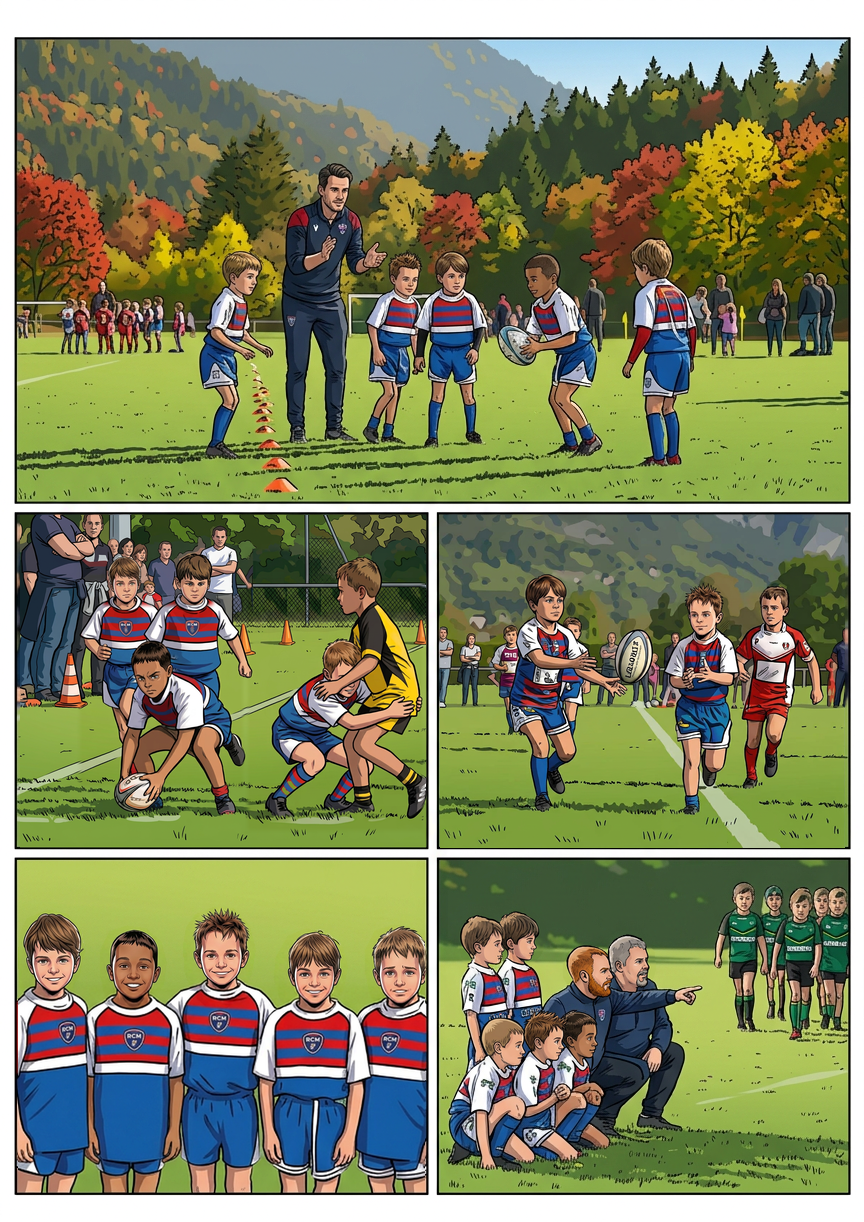
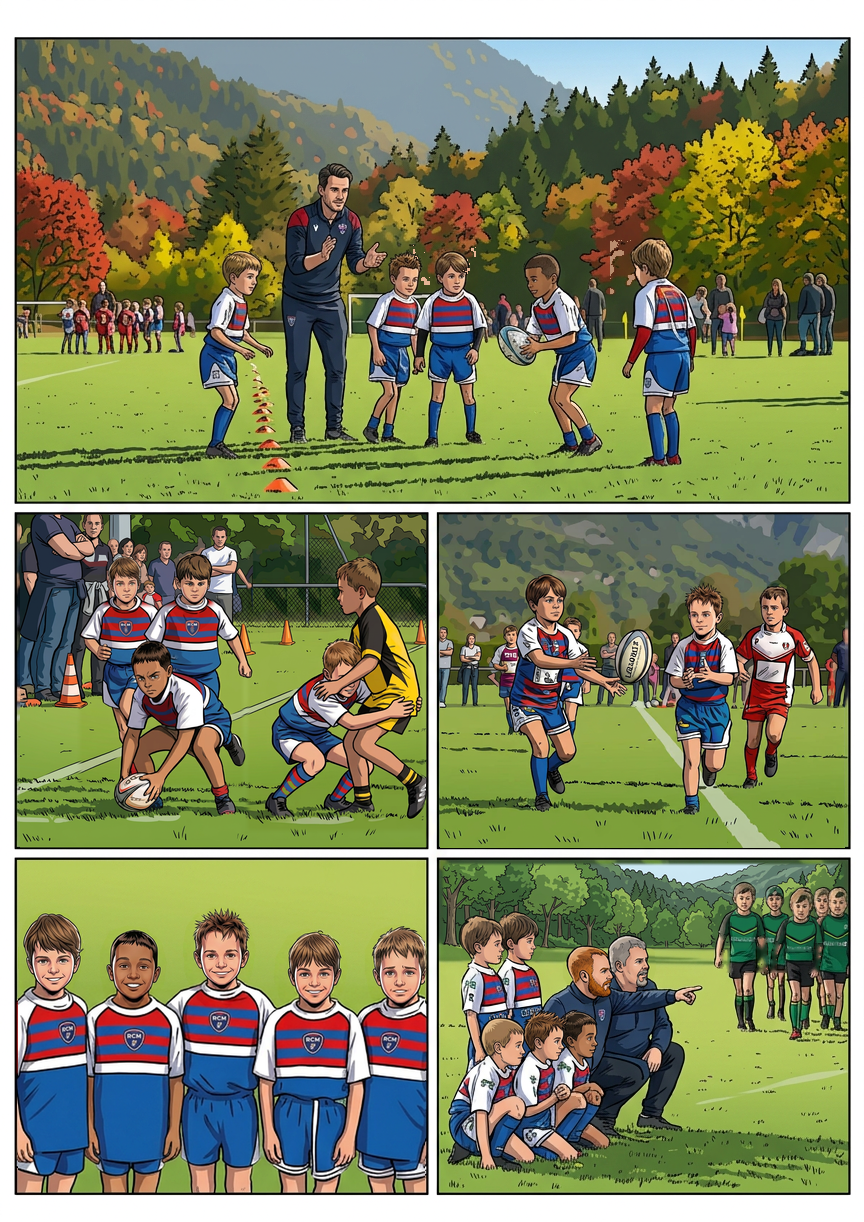
Lot AM : reprises transversales sur 17 vignettes (planches 06, 07, 10, 12, 13, 14, 16)

Changed region(s): [[0.5, 0.6841, 0.9688, 0.8085], [0.6875, 0.1866, 0.7188, 0.2177]]

diff --git a/Planches-dessin/validation/REVUE-COUVERTURE.md b/Planches-dessin/validation/REVUE-COUVERTURE.md
@@ -591,6 +591,20 @@ Quatrième passe de relecture globale transversale résolvant les réserves visu
 - **`19-2` (`Planches-dessin/19-les-joueurs-analysent-les-coachs-preparent-marvel.png`)** : harmonisation des maillots du RCM des trois enfants en bonnets d'hiver (Ayden, Milo, Nolann) par-dessus leur sous-pull thermique noir (épaules et manches courtes blanches, rayures horizontales rouge et bleu en haut du buste, bande pectorale horizontale blanche et bas du maillot bleu roi uni).
 - **`20-1`, `20-2`, `20-4` et `20-5` (`Planches-dessin/20-le-test-du-grand-froid-le-mole-et-thonon-marvel.png`)** : nettoyage complet des marquages parasites (`LOCASELF`, `RCN`, écussons d'épaule) sur les cinq joueurs du RCM en `20-1` ; rétablissement des épaules et manches courtes blanches, de la bande pectorale horizontale blanche et du bas de maillot bleu roi uni par-dessus les sous-pulls thermiques noirs sur les joueurs du RCM en `20-2` (essai aplati et coéquipier), `20-4` (porteur de balle au bonnet gris) et `20-5` (Milo assis et Léon agenouillé).
 - **Preuves** : `Planches-dessin/validation/revue-couverture/lot-al/AL-AVANT-APRES.jpg`, `<vignette>-avant-al.png`, `<vignette>-apres-al.png` et `<vignette>-masque-cumulatif.png`.
-- **Suite de la relecture globale transversale (Lot AM)** : finaliser les reprises ciblées sur `07-2` (raccord du fond d'arbres d'automne derrière les joueurs), `07-6` (joueurs du RCM à droite en manches courtes blanches et proportions enfantines) et `10-3`, `10-4`, `10-5` (nettoyage des halos de détourage autour des têtes de Léon et Ayden) avant la validation graphique définitive et l'ajout final des bulles et textes.
+- **Suite de la relecture globale transversale** : traitée dans le Lot AM ci-dessous.
+
+## Trente-neuvième livraison (Lot AM) — reprises transversales ciblées sur 17 vignettes des planches 06, 07, 10, 12, 13, 14 et 16
+
+Cinquième passe de relecture globale transversale résolvant les réserves visuelles et de détourage sur les planches `06`, `07`, `10`, `12`, `13`, `14` et `16` contre la couverture canonique (`00-couverture-marvel.png`) :
+
+- **`06-1` et `06-5` (`Planches-dessin/06-deux-victoires-marvel.png`)** : en `06-1`, suppression des manches longues sombres de Lyssandro au centre et de la manche longue rouge du joueur de droite au profit de leurs avant-bras nus sous les manches courtes blanches ; en `06-5`, encrage BD complet des arbres et collines d'arrière-plan et nettoyage des marquages parasites sur les poitrines de Montmélian.
+- **`07-1`, `07-2`, `07-4`, `07-5` et `07-6` (`Planches-dessin/07-mur-vert-et-noir-marvel.png`)** : en `07-1`, nettoyage de l'écusson publicitaire vert/jaune, des lettres `JR` sur la manche droite et du lettrage `LOCASE` au bas du maillot de Lyssandro, suppression des textes `MONTMÉLIAN` sur les cinq maillots adverses et harmonisation en noir du short du troisième joueur de Montmélian ; en `07-2`, remplacement de l'aplat orange découpé par un fond continu d'arbres d'automne, haie, spectateurs et main courante entièrement encré en style BD et suppression des sous-manches sombres de Milo et Léon ; en `07-4` et `07-5`, suppression des numéros de poitrine (`16`, `15`, `18`, `6`, `17`) et textes parasites sur l'avant des maillots du RCM ; en `07-6`, remplacement de l'aplat orange par un fond d'arbres d'automne entièrement encré en style BD, reprise des trois joueurs du RCM à droite en manches courtes blanches avec bras et jambes nus (suppression des manches rouges et collants/manches noirs) et harmonisation du bas de la veste bleu marine de Kilian à gauche.
+- **`10-3`, `10-4` et `10-5` (`Planches-dessin/10-ruminations-marvel.png`)** : suppression complète des halos rectangulaires de détourage autour des têtes de Léon et Ayden (sous le préau en `10-3`, devant les arbres d'automne en `10-4` et devant la façade de briques et fenêtres en `10-5`) et reprise de leurs visages et coiffures de trois-quarts/profil selon la couverture canonique (cheveux châtains en épis pour Léon, cheveux châtain clair à courte frange pour Ayden).
+- **`12-1` (`Planches-dessin/12-travail-dans-la-boue-marvel.png`)** : suppression des manches longues noires de Milo (5e enfant à droite) au profit de ses avant-bras nus sous ses manches courtes blanches, en cohérence avec Léon, Lyssandro, Ayden et Nolann.
+- **`13-2`, `13-3` et `13-6` (`Planches-dessin/13-hauts-et-bas-de-novembre-marvel.png`)** : suppression de la manche longue blanche d'Ayden en `13-2` ; reprise complète en `13-3` des cinq joueurs du RCM (Léon, Lyssandro, Ayden, Nolann au teint mat, Milo) et en `13-6` des quatre joueurs du RCM à gauche (Léon, Lyssandro, Ayden, Milo) avec suppression intégrale des lettrages `LOCASELF`, des sous-manches longues (bleues, blanches, noires) et du collant noir d'Ayden au profit des manches courtes blanches et bras/jambes nus canoniques.
+- **`14-5` (`Planches-dessin/14-les-mots-de-trop-marvel.png`) et `16-3`, `16-5` (`Planches-dessin/16-le-pardon-des-copains-marvel.png`)** : harmonisation du bas de la veste bleu marine de Kilian à droite en `14-5` ; nettoyage de la tache frontale de Julien en `16-3` et suppression des marquages publicitaires sur les manches blanches de Léon et Lyssandro en `16-5`.
+- **Preuves** : `Planches-dessin/validation/revue-couverture/lot-am/AM-AVANT-APRES.jpg` et les 17 masques cumulatifs `<vignette>-masque-cumulatif.png`.
+- **Suite de la relecture globale transversale (Lot AN)** : finaliser l'encrage BD des fonds d'arbres flous en `14-2` et `16-4` ainsi que le nettoyage des derniers lettrages `LOCASELF` résiduels (`08-1`, `08-6`, `09-2`, `12-6`, `22-1`, `22-5`) avant la validation graphique définitive et l'étape finale d'ajout des bulles et textes.
+
 
 

diff --git a/Planches-dessin/SUIVI-STYLE.md b/Planches-dessin/SUIVI-STYLE.md
@@ -277,6 +277,8 @@ Premières corrections : 26/3 (têtes Nolann/Milo/Ayden et carnation visible de 
 - **Lot AI (relecture transversale, 20 vignettes sur les planches 03, 04, 05, 07, 09, 11, 12, 14 et 16)** : harmonisation au bleu marine foncé canonique des vestes des trois éducateurs (Flavien, Julien, Kilian), suppression des inscriptions parasites sur leurs vestes (`04-1`, `04-3`, `05-3`, `05-4`, `11-2`, `14-4`) et rétablissement des manches courtes blanches d’Ayden en `03-2`.
 - **Lot AJ (relecture transversale des planches 01, 03, 04, 05 et 06)** : reprises ciblées sur `01-1` (coupe de Milo, avant-bras nus au teint mat de Nolann, rayures horizontales de Léon et nettoyage des maillots/shorts), `03-3` (bande pectorale blanche et bas bleu roi uni des maillots de Nolann et Milo), `04-4` et `06-2` (plaquage bas aux jambes/cuisses conforme aux règles U8, manches courtes blanches et avant-bras nus de Nolann), `05-1` et `06-4` (suppression des manches longues noires de Nolann, rétablissement des manches courtes blanches et chaussettes rayées rouge et bleu du RCM).
 - **Lot AK (relecture transversale des planches 07, 08, 09, 11, 12, 14 et 18)** : reprises ciblées sur `07-3`, `09-3`, `11-3`, `12-1`, `12-5`, `14-2` et `14-5` (suppression des manches longues parasites hors hiver et rétablissement des manches courtes blanches avec avant-bras nus), `08-4` (plaquage bas aux hanches/cuisses sur Milo et maillots canoniques du RCM) et `18-1` (maillots du RCM à épaules blanches, bande pectorale blanche et bas bleu roi uni sur sous-pull thermique noir).
-- **Lot AL (relecture transversale des planches 13, 14, 19 et 20)** : reprises ciblées sur `13-4` (plaquage bas aux hanches/taille sur Ayden et bras nus sous manches courtes blanches), `13-5`, `14-1` et `14-4` (suppression des manches longues parasites hors hiver, correction des raccords d'épaules/cols de Lyssandro et Milo en `14-1`, nettoyage des lettrages `LOCASELF` et de la veste de Kilian en `14-4`), `19-2`, `20-1`, `20-2`, `20-4` et `20-5` (nettoyage des inscriptions `LOCASELF`/`RCN` en `20-1` et rétablissement des épaules blanches, de la bande pectorale blanche et du bas bleu roi uni des maillots du RCM sur sous-pull thermique noir en `19-2`, `20-2`, `20-4` et `20-5`). Prochaine étape : Lot AM (`07-2`, `07-6`, `10-3`, `10-4`, `10-5`) puis validation finale et ajout des bulles et textes.
+- **Lot AL (relecture transversale des planches 13, 14, 19 et 20)** : reprises ciblées sur `13-4` (plaquage bas aux hanches/taille sur Ayden et bras nus sous manches courtes blanches), `13-5`, `14-1` et `14-4` (suppression des manches longues parasites hors hiver, correction des raccords d'épaules/cols de Lyssandro et Milo en `14-1`, nettoyage des lettrages `LOCASELF` et de la veste de Kilian en `14-4`), `19-2`, `20-1`, `20-2`, `20-4` et `20-5` (nettoyage des inscriptions `LOCASELF`/`RCN` en `20-1` et rétablissement des épaules blanches, de la bande pectorale blanche et du bas bleu roi uni des maillots du RCM sur sous-pull thermique noir en `19-2`, `20-2`, `20-4` et `20-5`).
+- **Lot AM (relecture transversale sur 17 vignettes des planches 06, 07, 10, 12, 13, 14 et 16)** : suppression des manches longues parasites en `06-1`, `07-2`, `12-1`, `13-2`, `13-3` et `13-6` ; encrage BD complet des fonds d'arbres en `06-5`, `07-2` et `07-6` et reprise des trois joueurs du RCM à droite en `07-6` (manches courtes blanches, bras et jambes nus) ; nettoyage des marquages/numéros parasites en `07-1`, `07-4`, `07-5`, `13-3`, `13-6` et `16-5` ; suppression complète des halos rectangulaires de détourage autour des têtes de Léon et Ayden en `10-3`, `10-4` et `10-5` avec coiffures et visages conformes à la couverture ; harmonisation de la veste de Kilian en `07-6` et `14-5` et nettoyage frontal de Julien en `16-3`. Prochaine étape : Lot AN (`14-2`, `16-4` et derniers marquages résiduels) puis validation graphique définitive et ajout final des bulles et textes.
+
 
 
